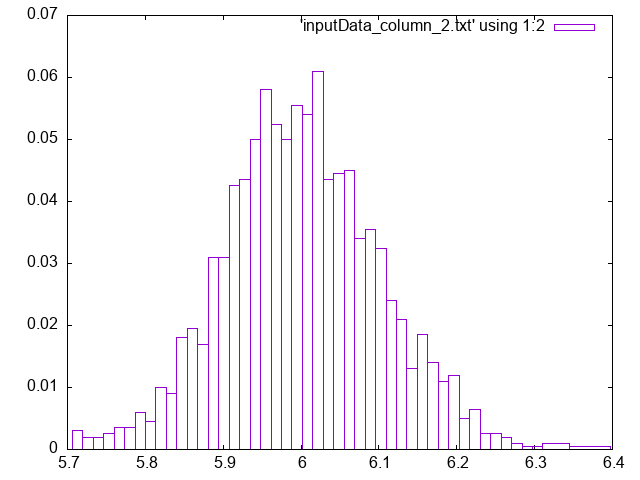
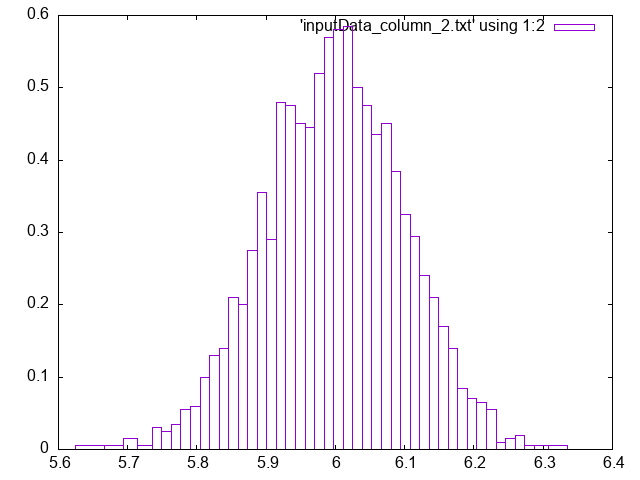
fixed histogram

diff --git a/mcmc2.cpp b/mcmc2.cpp
@@ -258,13 +258,13 @@ void plotHistogram(const std::string &filename) {
 
 int main() {
   int dim = 3;              // Количество параметров
-  int num_samples = 200;    // Количество выборок
+  int sampleSize = 200;     // Количество выборок
   int num_steps = 100;      // Количество шагов интегрирования
   double epsilon = 0.0001;  // Шаг по времени
   double noiseStddev = 0.1; // Стандартное отклонение шума
   double lowBound = -5.0;   // Нижняя граница параметров
-  double upperBound = 5.0; // Верхняя граница параметров
-  int batchSize = 2000;    // Размер batch
+  double upperBound = 5.0;  // Верхняя граница параметров
+  int batchSize = 2000;     // Размер batch
 
   Model model(dim, noiseStddev, lowBound, upperBound, batchSize);
 
@@ -273,12 +273,12 @@ int main() {
 
   // Запуск HMC
   std::vector<std::vector<double>> samples =
-      hmc(model, initial_x, num_samples, epsilon, num_steps);
+      hmc(model, initial_x, sampleSize, epsilon, num_steps);
 
   // Вычисление среднего по каждому параметру
   std::vector<double> mean = computeMean(samples);
 
-  std::cout << "\nMean of each parameter after " << num_samples
+  std::cout << "\nMean of each parameter after " << sampleSize
             << " samples:" << std::endl;
   for (double m : mean) {
     std::cout << m << " ";
@@ -301,7 +301,7 @@ int main() {
 
     // Сохраняем гистограмму для каждого столбца
     std::string filename = "inputData_column_" + std::to_string(i);
-    saveHistogramToFile(histogram, filename, batchSize);
+    saveHistogramToFile(histogram, filename, sampleSize);
 
     // Строим гистограмму с использованием gnuplot
     plotHistogram(filename);
